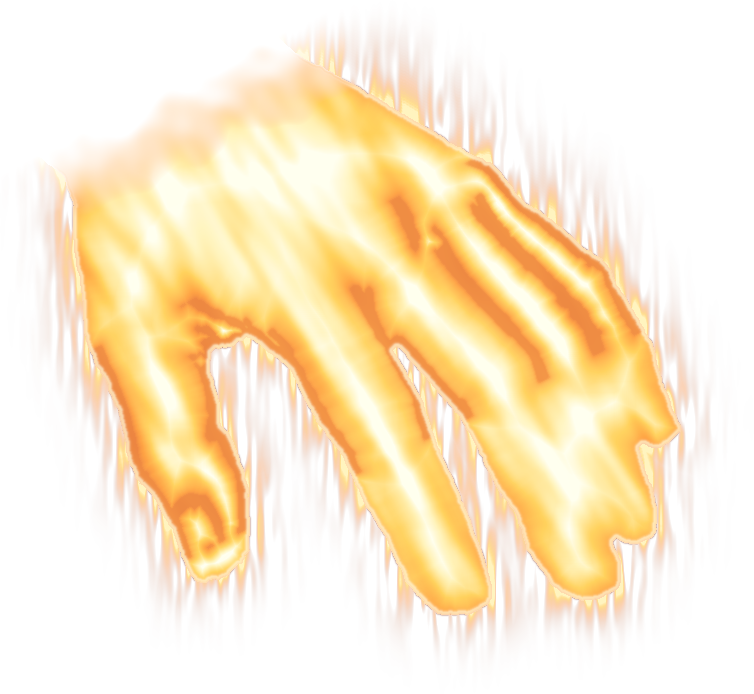
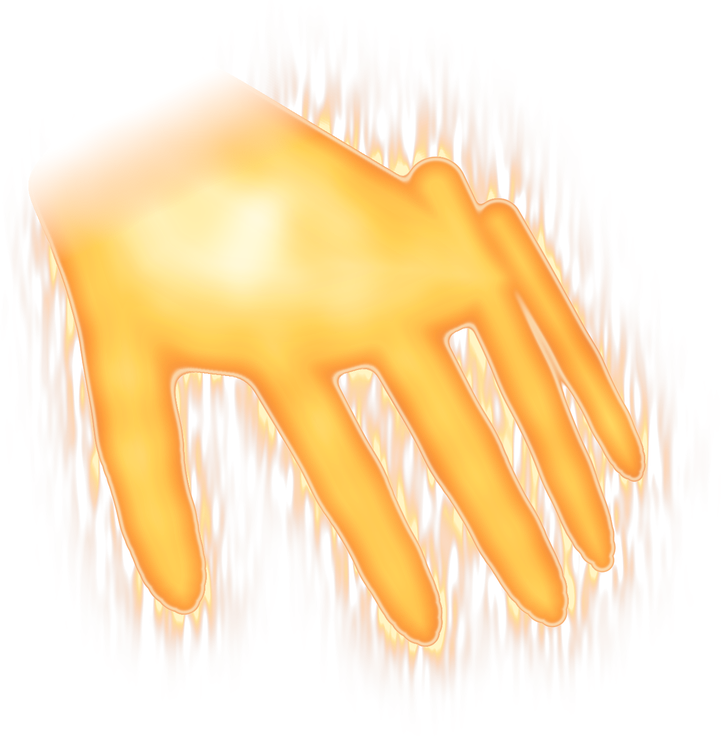
art: bàn tay năng lượng vẽ lại bằng đường cong trơn (bản chờ duyệt, chưa đưa lên demo)
Claude-Session: https://claude.ai/code/session_014A94BHnyL4tu48AS77QbVM

diff --git a/tools/art/phap_tuong.py b/tools/art/phap_tuong.py
@@ -102,90 +102,91 @@ def bez(p0, p1, p2, n=24):
     return list(map(tuple, (1 - t) ** 2 * np.array(p0) + 2 * (1 - t) * t * np.array(p1) + t ** 2 * np.array(p2)))
 
 
-SEAM_WV = (420, 650)                     # vùng có khe ngón (từ khớp ngón tới trước đầu ngón — bỏ gân mu bàn tay, móng)
-WRIST_CUT = 230                          # bỏ phần cổ tay: giữ phía dưới đường cắt chéo (0.45x + 0.9y)
+# ---- BÀN TAY NĂNG LƯỢNG: dáng canh theo hình 4 của bản phác thảo (toạ độ px trên khung phác thảo phóng ×3, 780×690),
+#      vẽ lại hoàn toàn bằng đường cong trơn — mỗi ngón là một ống cong thon dần (Bézier bậc 2), mu bàn tay là một khối
+#      bo tròn; KHÔNG dùng nét chì (không gân, không móng, không nếp da)
+HAND_BACK = [(100, 180), (225, 30), (310, 75), (460, 165), (545, 215), (610, 280), (560, 320), (470, 360), (380, 385),
+             (300, 375), (255, 370), (170, 320), (130, 250)]
+FINGERS = [  # (gốc, giữa, đầu ngón), nửa bề rộng ở gốc → ở đầu, độ hoà vào mu bàn tay
+    (((200, 330), (205, 450), (262, 598)), (46, 30), 30),     # ngón cái
+    (((365, 370), (440, 500), (503, 632)), (38, 26), 14),     # ngón trỏ
+    (((480, 340), (545, 460), (630, 612)), (39, 27), 14),     # ngón giữa
+    (((545, 250), (615, 390), (680, 560)), (28, 21), 10),     # ngón áp út
+    (((612, 282), (672, 382), (712, 472)), (21, 16), 8),     # ngón út
+]
+WRIST_FADE = (190, 300)                  # bỏ cổ tay: mờ dần theo đường chéo 0.45x + 0.9y
 
 
 def palm():
-    """Bàn tay chưởng = MU BÀN TAY úp xuống (góc nhìn từ trên của game), lấy nguyên nét vẽ từ hình 4 của bản phác thảo
-    tools/art/ref/hand_back_sketch.png, tô thành tay lửa vàng theo phong cách ảnh mẫu palm_ref.png:
-      · bóng chì của bản vẽ → độ sáng (chỗ sáng vàng trắng, chỗ đổ bóng cam)
-      · nét chì (khớp ngón, móng, gân) → nét cam đỏ đậm, giữ nguyên chi tiết
-      · viền trong sáng trắng vàng, quầng cam ngoài, vệt lửa bốc lên; cổ tay (trên trái) mờ dần"""
-    UPS = 3
-    g = np.array(Image.open(os.path.join(HERE, 'ref', 'hand_back_sketch.png')).convert('L').crop((310, 305, 570, 535))
-                 .resize((260 * UPS, 230 * UPS), Image.LANCZOS)).astype(float)
-    paper = ndimage.median_filter(g, 41)
-    ink = np.clip((paper - g - 10) / 60, 0, 1)
-    mk = Image.fromarray(((ink > 0.3) * 255).astype(np.uint8))
-    ImageDraw.Draw(mk).line([(10, 165), (25, 140), (45, 118), (130, 60), (220, 22)], fill=255, width=8)   # khép cổ tay
-    mm = ndimage.binary_dilation(np.array(mk) > 0, iterations=3)
-    f = ndimage.binary_erosion(ndimage.binary_fill_holes(mm), iterations=3)
-    lab, n = ndimage.label(f)
-    f = lab == (np.argmax(ndimage.sum(f, lab, range(1, n + 1))) + 1)
-    # đường viền NGÓN TAY (nét dài) → khe tách ngón; bỏ nét móng tay (vòng kín nhỏ) và mọi nét da / gân / nếp
-    L = ndimage.binary_dilation(ink > 0.4, iterations=1)
-    lab, n = ndimage.label(L)
-    seam = np.zeros_like(L)
-    for i, sl in enumerate(ndimage.find_objects(lab)):
-        if np.hypot(sl[0].stop - sl[0].start, sl[1].stop - sl[1].start) > 110:
-            seam[sl] |= lab[sl] == i + 1
-    nail = ndimage.binary_fill_holes(seam) & ~seam
-    nl, nn = ndimage.label(nail)
-    small = np.isin(nl, [i + 1 for i, v in enumerate(ndimage.sum(nail, nl, range(1, nn + 1))) if v < 4000])
-    seam &= ~ndimage.binary_dilation(small, iterations=6)
-    PAD = 60
-    f = np.pad(f, PAD); seam = np.pad(seam, PAD)
-    H, W = f.shape
-    yy, xx = np.mgrid[0:H, 0:W]
-    # BỎ CỔ TAY: chỉ giữ bàn tay; chỗ cắt tan thành khí (mờ dần, không viền)
-    wv = (xx - PAD) * 0.45 + (yy - PAD) * 0.9
-    wvn = wv + 22 * ndimage.gaussian_filter(np.random.default_rng(4).standard_normal((H, W)), 9) * 9   # mép tan gợn sóng
-    cutF = np.clip((wvn - WRIST_CUT) / 70, 0, 1) ** 1.3
-    f = f & (wv > WRIST_CUT - 20)
-    lab, n = ndimage.label(f)
-    f = lab == (np.argmax(ndimage.sum(f, lab, range(1, n + 1))) + 1)
-    seamIn = seam & ndimage.binary_erosion(f, iterations=4) & (wv > SEAM_WV[0]) & (wv < SEAM_WV[1])   # chỉ khe giữa các ngón
-    f2 = f & ~ndimage.binary_dilation(seamIn, iterations=1)                  # từng ngón là một khối riêng
-    fm = ndimage.gaussian_filter(f.astype(float), 1.0)
-    din = ndimage.distance_transform_edt(f2)
-    dEdge = ndimage.distance_transform_edt(f)
-    dout = ndimage.distance_transform_edt(~f)
-    # NĂNG LƯỢNG THUẦN: khối khí sáng theo độ dày (lõi trắng vàng → mép cam), vân năng lượng chảy nhẹ theo hướng ngón
-    thick = ndimage.grey_dilation(din, size=41)
-    t = np.clip(din / np.maximum(thick, 1), 0, 1)
-    rng = np.random.default_rng(9)
-    ang = 58
-    r = ndimage.rotate(rng.random((H, W)), ang, reshape=False, mode='wrap')
-    flow = ndimage.rotate(ndimage.gaussian_filter(r, (6, 30)), -ang, reshape=False, mode='wrap')
-    flow = (flow - flow.mean()) / (flow.std() + 1e-6)
-    e = np.clip(0.28 + 0.78 * t ** 0.8 + 0.06 * flow, 0, 1)
-    col = ramp(e, [(0, (225, 85, 12)), (0.35, (255, 145, 32)), (0.65, (255, 205, 75)), (0.88, (255, 243, 185)), (1.0, (255, 255, 238))])
-    sm = ndimage.gaussian_filter(seamIn.astype(float), 1.6)
-    sm = np.clip(sm * 1.6, 0, 1)
-    col = col * (1 - sm[..., None] * 0.6) + np.array([230, 105, 18.]) * sm[..., None] * 0.6   # khe giữa các ngón
-    rimIn = np.exp(-((dEdge - 2.5) / 2.2) ** 2) * f * cutF
-    col = col * (1 - rimIn[..., None] * 0.75) + np.array([255, 250, 220.]) * rimIn[..., None] * 0.75
-    col = col * cutF[..., None] + np.array([255, 140, 30.]) * (1 - cutF[..., None])   # chỗ tan: chuyển cam, không xám
-    bodyA = fm * np.clip(0.8 + 0.2 * t, 0, 1) * cutF
-    bodyA = np.maximum(bodyA, rimIn * 0.95)
-    # quầng + vệt lửa bốc lên
-    halo = np.exp(-dout / 14) * (~f)
-    src = np.maximum(f * 0.6 * cutF, halo)
+    """Bàn tay chưởng = MU BÀN TAY NĂNG LƯỢNG THUẦN úp xuống: khối khí sáng mượt (lõi trắng vàng → mép cam) theo từng
+    ngón, viền sáng mảnh, quầng + lửa bốc lên; cổ tay tan thành khí."""
+    SS = 2
+    PAD = 70
+    W, H = 780 + 2 * PAD, 690 + 2 * PAD
+    yy, xx = np.mgrid[0:H * SS, 0:W * SS].astype(float) / SS
+    X, Y = xx - PAD, yy - PAD
+    # mu bàn tay: đa giác bo tròn (làm mượt mặt nạ rồi lấy khoảng cách có dấu)
+    mk = Image.new('L', (W * SS, H * SS), 0)
+    ImageDraw.Draw(mk).polygon([((x + PAD) * SS, (y + PAD) * SS) for x, y in HAND_BACK], fill=255)
+    m = ndimage.gaussian_filter(np.array(mk).astype(float), 14 * SS) > 127
+    dPalm = (ndimage.distance_transform_edt(~m) - ndimage.distance_transform_edt(m)) / SS
+    parts = [(dPalm, 150.0)]                                                   # mu bàn tay: lõi dịu, không loá trắng
+    d = dPalm
+    for (p0, p1, p2), (w0, w1), kk in FINGERS:
+        dx, dy = p1[0] - p0[0], p1[1] - p0[1]
+        dl = np.hypot(dx, dy)
+        p0 = (p0[0] - dx / dl * 70, p0[1] - dy / dl * 70)                    # gốc ngón ăn sâu vào mu bàn tay (khớp liền)
+        w0, w1 = w0 + 3, w1 + 3
+        tt = np.linspace(0, 1, 28)
+        pts = [((1 - u) ** 2 * p0[0] + 2 * (1 - u) * u * p1[0] + u ** 2 * p2[0],
+                (1 - u) ** 2 * p0[1] + 2 * (1 - u) * u * p1[1] + u ** 2 * p2[1]) for u in tt]
+        df = np.full(X.shape, 1e9)
+        for i in range(len(pts) - 1):
+            (ax, ay), (bx, by) = pts[i], pts[i + 1]
+            dd, tseg = seg_d(X, Y, ax, ay, bx, by)
+            u = (i + tseg) / (len(pts) - 1)
+            w = (w0 + (w1 - w0) * u) * (1 + 0.07 * np.exp(-((u - 0.5) / 0.07) ** 2) + 0.05 * np.exp(-((u - 0.75) / 0.05) ** 2))   # khớp ngón hơi nở
+            w = w * np.where(u > 0.85, np.sqrt(np.clip(1 - ((u - 0.85) / 0.17) ** 2, 0.25, 1)), 1)   # đầu ngón bo tròn
+            df = np.minimum(df, dd - w)
+        parts.append((df, (w0 + w1) / 2))
+        d = smin(d, df, kk)
+    # độ "sâu" trong từng khối → lõi sáng riêng mỗi ngón; chỗ giáp nhau tự thành rãnh cam (không vẽ nét)
+    # một khối liền: sáng dần từ mép vào trong (mép cam → thân vàng → lõi vàng trắng ở giữa mu bàn tay), không có lõi
+    # riêng từng ngón (tránh ngón tay thành que phát sáng)
+    t = 0.55 * np.clip(-d / 22, 0, 1) ** 0.8 + 0.45 * np.clip(-d / 110, 0, 1)
+    t = ndimage.gaussian_filter(t, 2 * SS)
+    inside = np.clip(0.5 - d * SS / 1.5, 0, 1)
+    nz = ndimage.gaussian_filter(np.random.default_rng(12).standard_normal(X.shape), 18 * SS)
+    nz = nz / (np.abs(nz).max() + 1e-6)                                       # khí cuộn nhẹ bên trong (không sọc)
+    e = np.clip(0.14 + 0.72 * t + 0.14 * nz, 0, 1)
+    col = ramp(e, [(0, (230, 90, 15)), (0.35, (255, 148, 34)), (0.65, (255, 208, 80)), (0.88, (255, 244, 190)), (1.0, (255, 255, 240))])
+    rim = np.exp(-((d + 2.5) / 2.0) ** 2)
+    col = col * (1 - rim[..., None] * 0.7) + np.array([255, 250, 222.]) * rim[..., None] * 0.7
+    # cổ tay tan thành khí (mép gợn)
+    wv = X * 0.45 + Y * 0.9
+    wn = wv + ndimage.gaussian_filter(np.random.default_rng(4).standard_normal(X.shape), 10 * SS) * 10 * SS * 2.5
+    cut = np.clip((wn - WRIST_FADE[0]) / (WRIST_FADE[1] - WRIST_FADE[0]), 0, 1) ** 1.4
+    col = col * cut[..., None] + np.array([255, 135, 25.]) * (1 - cut[..., None])   # chỗ tan: cam, không xám
+    bodyA = np.maximum(inside * (0.82 + 0.18 * t), rim * inside * 0.95) * cut
+    # quầng + lửa bốc lên
+    rng = np.random.default_rng(5)
+    halo = np.exp(-np.maximum(d, 0) / 16) * (d > 0)
+    src = np.maximum(inside * 0.55, halo) * np.clip((wv - WRIST_FADE[0] - 40) / 80, 0, 1)
     flame = src.copy()
-    for k in range(1, 30):
-        sh = np.zeros_like(src); sh[:-k * 3] = src[k * 3:]
+    for k in range(1, 32):
+        sh = np.zeros_like(src); sh[:-k * 3 * SS] = src[k * 3 * SS:]
         flame = np.maximum(flame, sh * 0.9 ** k)
-    st = ndimage.gaussian_filter(rng.random((H, W)), (16, 2.2))
+    st = ndimage.gaussian_filter(rng.random(X.shape), (16 * SS, 2.2 * SS))
     st = (st - st.mean()) / (st.std() + 1e-6)
-    flame = np.clip(flame * np.clip(0.6 + 0.6 * st, 0, 1.5), 0, 1) * (~f)
-    fcol = ramp(flame, [(0, (120, 30, 0)), (0.4, (240, 110, 20)), (0.8, (255, 200, 70)), (1.0, (255, 240, 170))])
-    A = np.maximum(bodyA, flame * 0.75 * np.clip((wv - WRIST_CUT + 10) / 60, 0, 1))
-    rgb = np.where(f[..., None], col, fcol)
-    img = Image.fromarray(np.dstack([np.clip(rgb, 0, 255), A * 255]).astype(np.uint8), 'RGBA')
+    flame = np.clip(flame * np.clip(0.6 + 0.6 * st, 0, 1.5), 0, 1) * (1 - inside)
+    fcol = ramp(flame, [(0, (150, 50, 0)), (0.4, (245, 120, 25)), (0.8, (255, 200, 70)), (1.0, (255, 240, 170))])
+    A = np.maximum(bodyA, flame * 0.7)
+    wi = np.clip(bodyA / np.maximum(A, 1e-4), 0, 1)[..., None]
+    rgb = col * wi + fcol * (1 - wi)
+    img = Image.fromarray(np.dstack([np.clip(rgb, 0, 255), A * 255]).astype(np.uint8), 'RGBA').resize((W, H), Image.LANCZOS)
     bb = img.getbbox(); img = img.crop(bb)
-    cy0, cx0 = [c.mean() for c in np.nonzero(f)]                             # điểm chạm đất = trọng tâm bàn tay
-    cxp, cyp = (cx0 - bb[0]) / img.width, (cy0 - bb[1]) / img.height
+    ys_, xs_ = np.nonzero((inside * cut)[::SS, ::SS] > 0.5)
+    cxp, cyp = (xs_.mean() - bb[0]) / img.width, (ys_.mean() - bb[1]) / img.height
     img.save(os.path.join(VFX, 'phap_tuong_palm.png'))
     print('palm', img.size, 'center', round(cxp, 3), round(cyp, 3))
     return img
